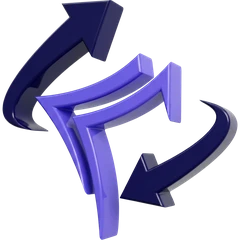
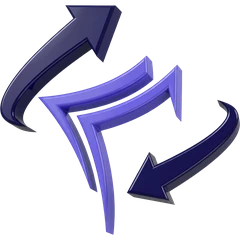
AntarTrade preview: firm 3D marks at the platforms' angle; fix the separation script

Changed region(s): [[0.0, 0.0, 1.0, 1.0], [0.2333, 0.2917, 0.2625, 0.3208], [0.2042, 0.3208, 0.2333, 0.35]]

diff --git a/antartrade/site/index.html b/antartrade/site/index.html
@@ -2039,7 +2039,7 @@ html.jr-d body .s-journal { margin-top: 0 !important; padding-top: 72px !importa
     </div>
   </div>
 </section>
-<script>(function(){ const q = new URLSearchParams(location.search).get('ls'); document.documentElement.classList.add('ls-' + (/^[abc]$/.test(q || '') ? q : 'c'));   // the labelled marker is the chosen look })();</script>
+<script>(function(){ const q = new URLSearchParams(location.search).get('ls'); document.documentElement.classList.add('ls-' + (/^[abc]$/.test(q || '') ? q : 'c')); /* the labelled marker is the chosen look */ })();</script>
 
 <!-- 03-table.html -->
 <section class="s-table" id="compare" data-theme="light">

diff --git a/antartrade/site/parts/02-logos.html b/antartrade/site/parts/02-logos.html
@@ -70,4 +70,4 @@
     </div>
   </div>
 </section>
-<script>(function(){ const q = new URLSearchParams(location.search).get('ls'); document.documentElement.classList.add('ls-' + (/^[abc]$/.test(q || '') ? q : 'c'));   // the labelled marker is the chosen look })();</script>
+<script>(function(){ const q = new URLSearchParams(location.search).get('ls'); document.documentElement.classList.add('ls-' + (/^[abc]$/.test(q || '') ? q : 'c')); /* the labelled marker is the chosen look */ })();</script>
